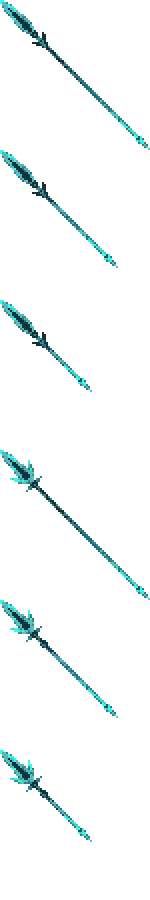
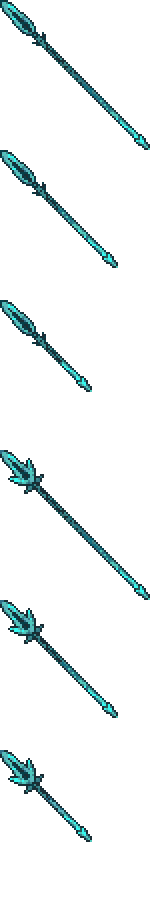
Sprite update

diff --git a/Projectiles/WindFusedSpears.cs b/Projectiles/WindFusedSpears.cs
@@ -57,20 +57,20 @@ namespace DasherClass.Projectiles
             {
                 if(flippedOrNotVertical)
                 {
-                    Projectile.rotation += MathHelper.ToRadians(80);
+                    Projectile.rotation += MathHelper.ToRadians(65);
                 } else
                 {
-                    Projectile.rotation -= MathHelper.ToRadians(10);
+                    Projectile.rotation -= MathHelper.ToRadians(25);
                 }
             }
             else
             {
                 if(flippedOrNotVertical)
                 {
-                    Projectile.rotation -= MathHelper.ToRadians(80);
+                    Projectile.rotation -= MathHelper.ToRadians(65);
                 } else
                 {
-                    Projectile.rotation += MathHelper.ToRadians(10);
+                    Projectile.rotation += MathHelper.ToRadians(25);
                 }
             }
         }
@@ -135,7 +135,7 @@ namespace DasherClass.Projectiles
 
             // Draw additive glow layer
             Color glowColor = new Color(150, 240, 230, 230) * 0.3f;
-            Main.EntitySpriteDraw(texture, drawPos, frame, glowColor, Projectile.rotation, origin, Projectile.scale * 1.15f, effects, 0);
+            Main.EntitySpriteDraw(texture, drawPos, frame, glowColor, Projectile.rotation, origin, Projectile.scale * 1.0f, effects, 0);
             return false;
         }
     }

diff --git a/Projectiles/JadeTippedSpearDash.cs b/Projectiles/JadeTippedSpearDash.cs
@@ -225,7 +225,7 @@ namespace DasherClass.Projectiles
             Main.EntitySpriteDraw(texture, drawPos, frame, lightColor, Projectile.rotation, origin, Projectile.scale, effects, 0);
 
             Color glowColor = new Color(40, 130, 85, 0) * 0.5f;
-            Main.EntitySpriteDraw(texture, drawPos, frame, glowColor, Projectile.rotation, origin, Projectile.scale * 0.9f, effects, 0);
+            Main.EntitySpriteDraw(texture, drawPos, frame, glowColor, Projectile.rotation, origin, Projectile.scale * 1.0f, effects, 0);
             return false;
         }
     }
